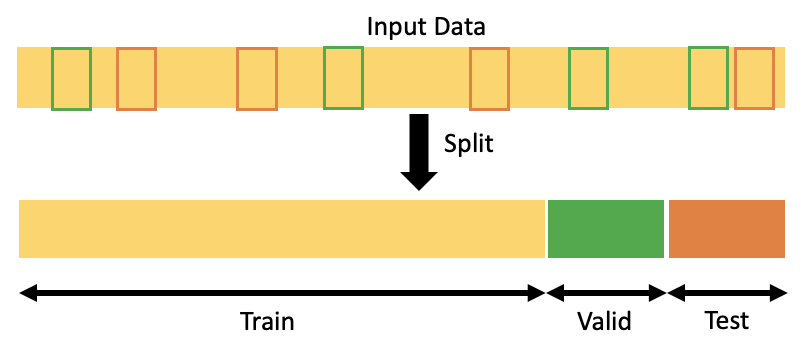
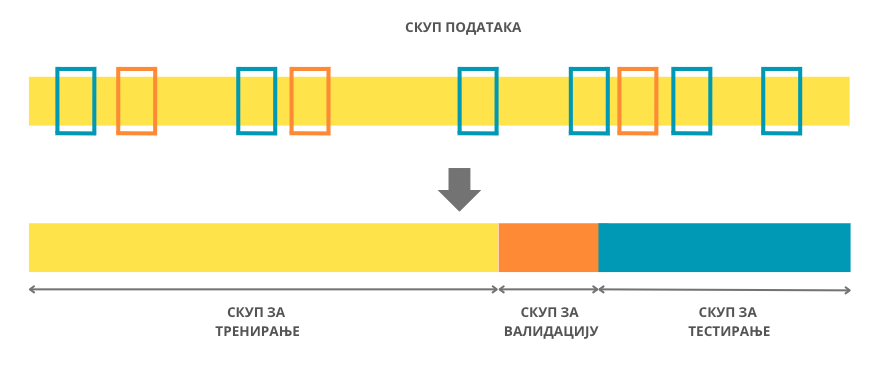
Popravke u lekciji Skupovi za treniranje validaciju i testiranje

diff --git a/_sources/05_EDA/053_Skupovi za treniranje validaciju i testiranje.rst b/_sources/05_EDA/053_Skupovi za treniranje validaciju i testiranje.rst
@@ -22,8 +22,6 @@
 
 *Подела скупа података на скуп за тренирање, скуп за валидацију и скуп за тестирање*
 
-(слика је преузета са https://towardsdatascience.com/how-to-split-data-into-three-sets-train-validation-and-test-and-why-e50d22d3e54c)
-
 -------
 
 Скупови за тренирање, валидацију и тестирање се по правилу креирају насумичном поделом полазног скупа података. Прво дефинишемо колико велики 
@@ -34,14 +32,18 @@
 пропорција 2:1:1 би значила да се две четвртине (тј. једна половина) полазног скупа користе као скуп за тренирање а по једна четвртина као скуп за 
 валидацију и тестирање.  
 
+|
+
 Иако је згодно што се скупови за тренирање, валидацију и тестирање креирају насумично, ипак би значио и неки увид у то како је ова подела 
 извршена. На пример, када желимо да поновимо експеримент или омогућимо другима да га самостално изведу (ово је важно својство експеримената и 
 зове се репродуцибилност), пожељно је да се користе исти скупови за тренирање, валидацију и тестирање. Слично, када решавамо задатак, нисмо баш 
 одмах сигурни шта је најбоље урадити па испорбавамо већи број алгоритама и креирамо већи број модела. Због коректности упоређивања значило би да 
 све моделе креирамо над истим скупом за тренирање и оцењујемо над истим скупом за тестирање. Зато је добро на нивоу библиотеке са којом се ради 
-подесити параметар који утиче на случајност поделе (обично се зове random seed и има исту сврху као подешавање семена код генератора случајних 
+подесити параметар који утиче на случајност поделе (обично се зове *random seed* и има исту сврху као подешавање семена код генератора случајних 
 бројева) или просто у старту извршити поделу података и надаље је конзистентно користити. Неки често коришћени скупови података имају ове 
 предефинисане поделе на скуп за тренирање, валидацију и тестирање (на пример, можеш да погледаш скуп *MNIST*). 
+
+|
  
 Важно својство које треба да испуне скупови за тренирање, валидацију и тестирање је да буду дисјунктни. То значи да свака инстанца полазног скупа 
 података приликом креирања скупова за тренирање, валидацију и тестирање мора припасти тачно једном од ових скупова, не смеју постојати пресеци и 
@@ -50,6 +52,8 @@
 могућности да објективно оценимо да ли модел заиста учи или меморише тј. памти информације из скупа за тренирање. Слично важи и за однос скупа за 
 тренирање и скупа за валидацију: функција скупа за валидацију је да помогне у одабиру конфигурација које ће учење учинити што успешнијим. Уколико 
 се ови скупови преклапају, нећемо бити у могућности да објективно и непристрасно оценимо понашање модела и одаберемо подесне конфигурације. 
+
+|
 
 Услов да скупови за тренирање, валидацију и тестирање треба да буду дисјунктни значи и да се информације из једног од скупова никако не смеју 
 преливати на друге скупове. Ово је посебно важно приликом примене техника претпроцесирања и припреме скупова. Размотримо следећи пример. Поменули 
@@ -62,9 +66,11 @@
 3. трансформација скупа за тренирање користећи израчунате вредности, 
 4. трансформација скупа за тестирање користећи овако израчунате вредности.
 
+|
+
 Због жеље да не погреши, неко може размишљати и на следећи начин: након што поделим полазни скуп података на скуп за тренирање и скуп за 
 тестирање, извршићу посебно стандардизацију скупа за тренирање и скупа за тестирање. И овај приступ, иако опрезнији, није коректан јер доводи до 
-модификације скупа за тестирање.  На доњој левој слици црвени троуглићи представљају инстанце скупа за тренирање, а плави кругови инстанце скупа 
+модификације скупа за тестирање.  На доњој левој слици  жути троуглићи представљају инстанце скупа за тренирање, а плави кругови инстанце скупа 
 за тестирање.  Слика у средини представља ове инстанце након коректне стандардизације (можеш пажљиво да упредиш слике и распоред тачака - скала 
 дуж x-осе се променила услед стандардизације, све друге је остало исто). На десној слици можеш да видиш инстанце након што се стандардизација 
 засебно изврши над скупом за тренирање и скупом за тестирање - просторни распоред се сада прилично променио.  
@@ -88,8 +94,6 @@
     :align: center
 
 *Стратификовани скупови за тренирање и тестирање*
-
-(слика је преузета са https://www.baeldung.com/cs/ml-stratified-sampling)
 
 -------
 
